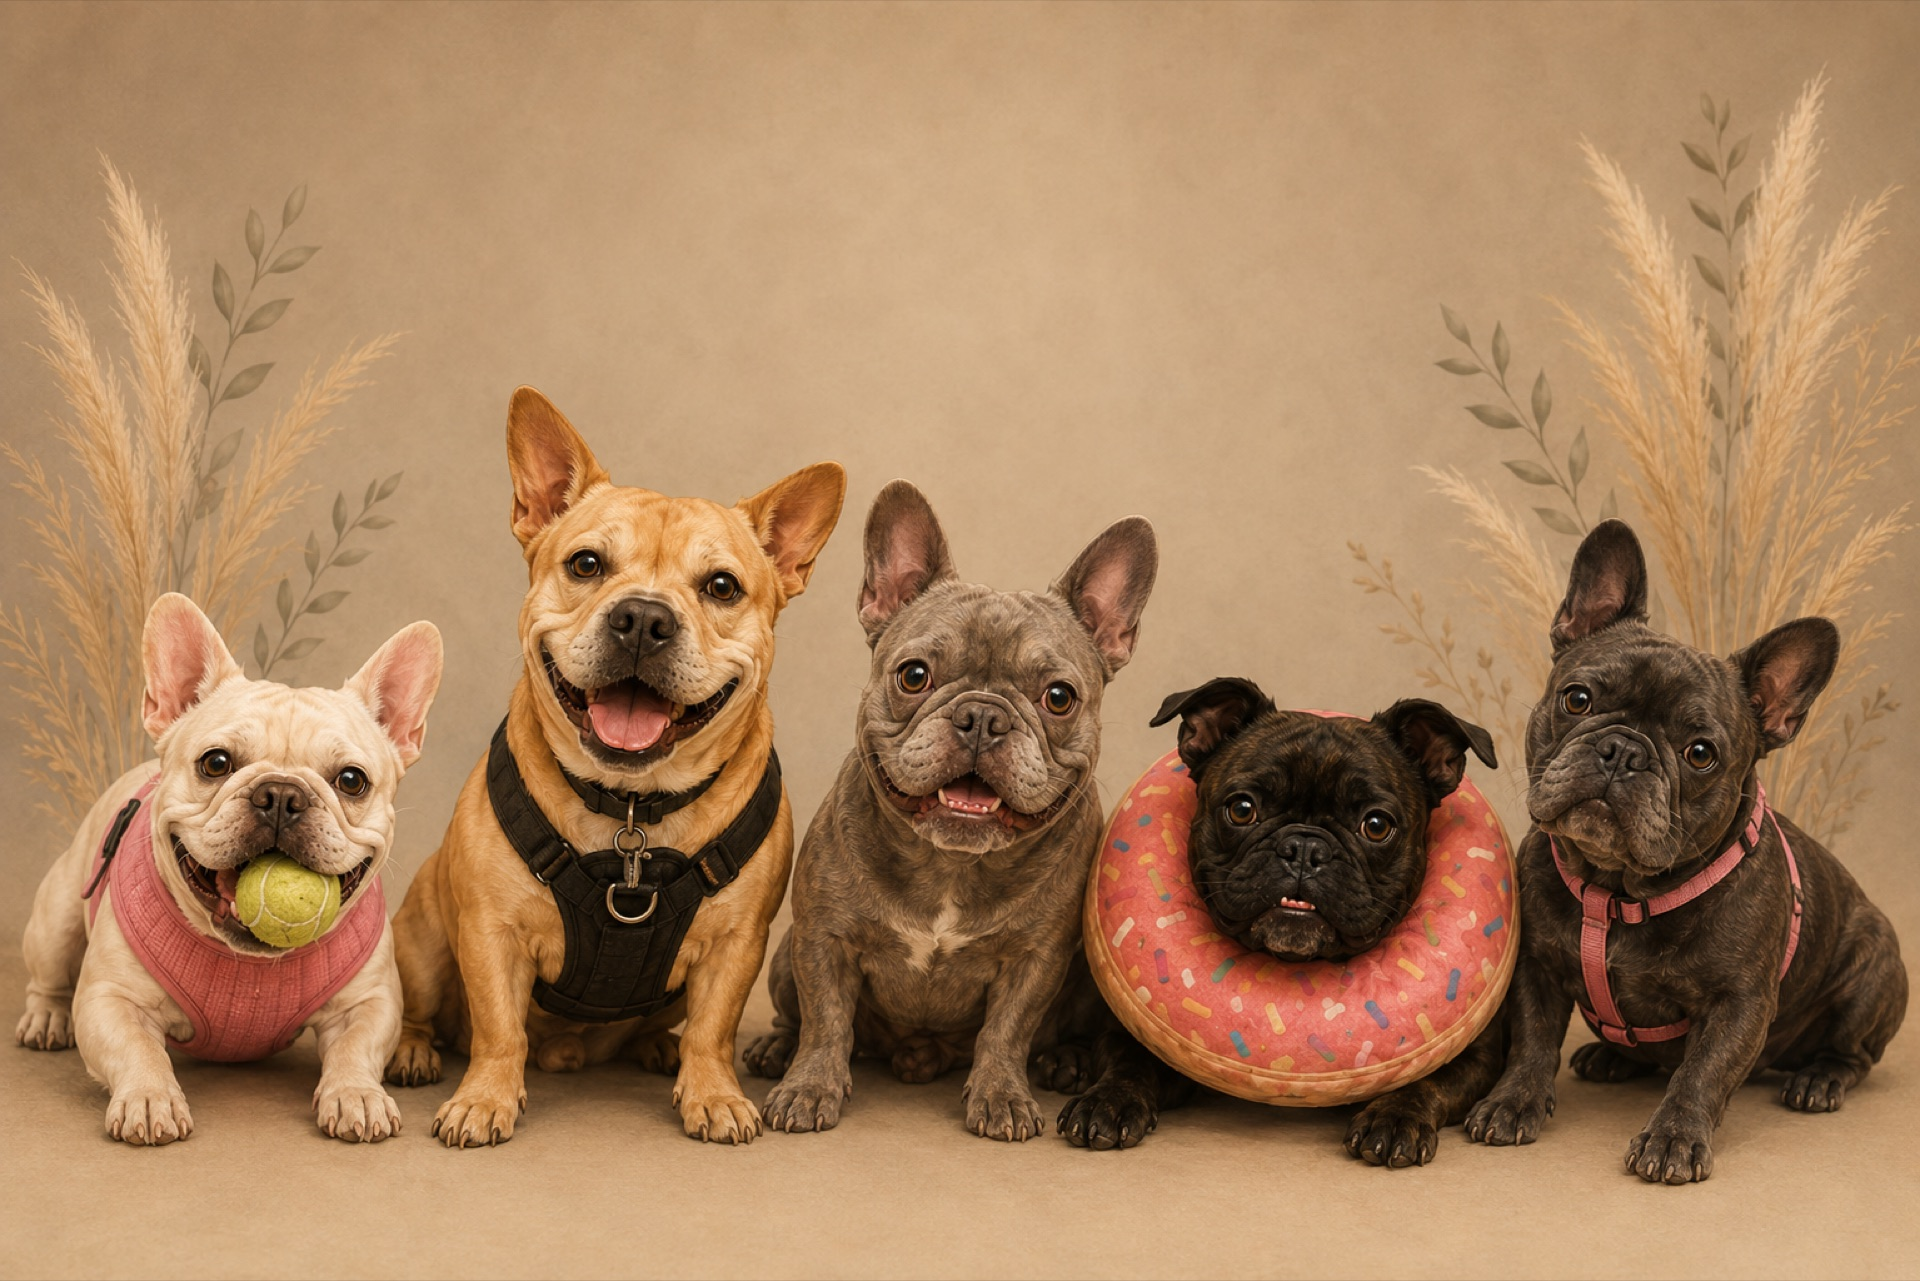
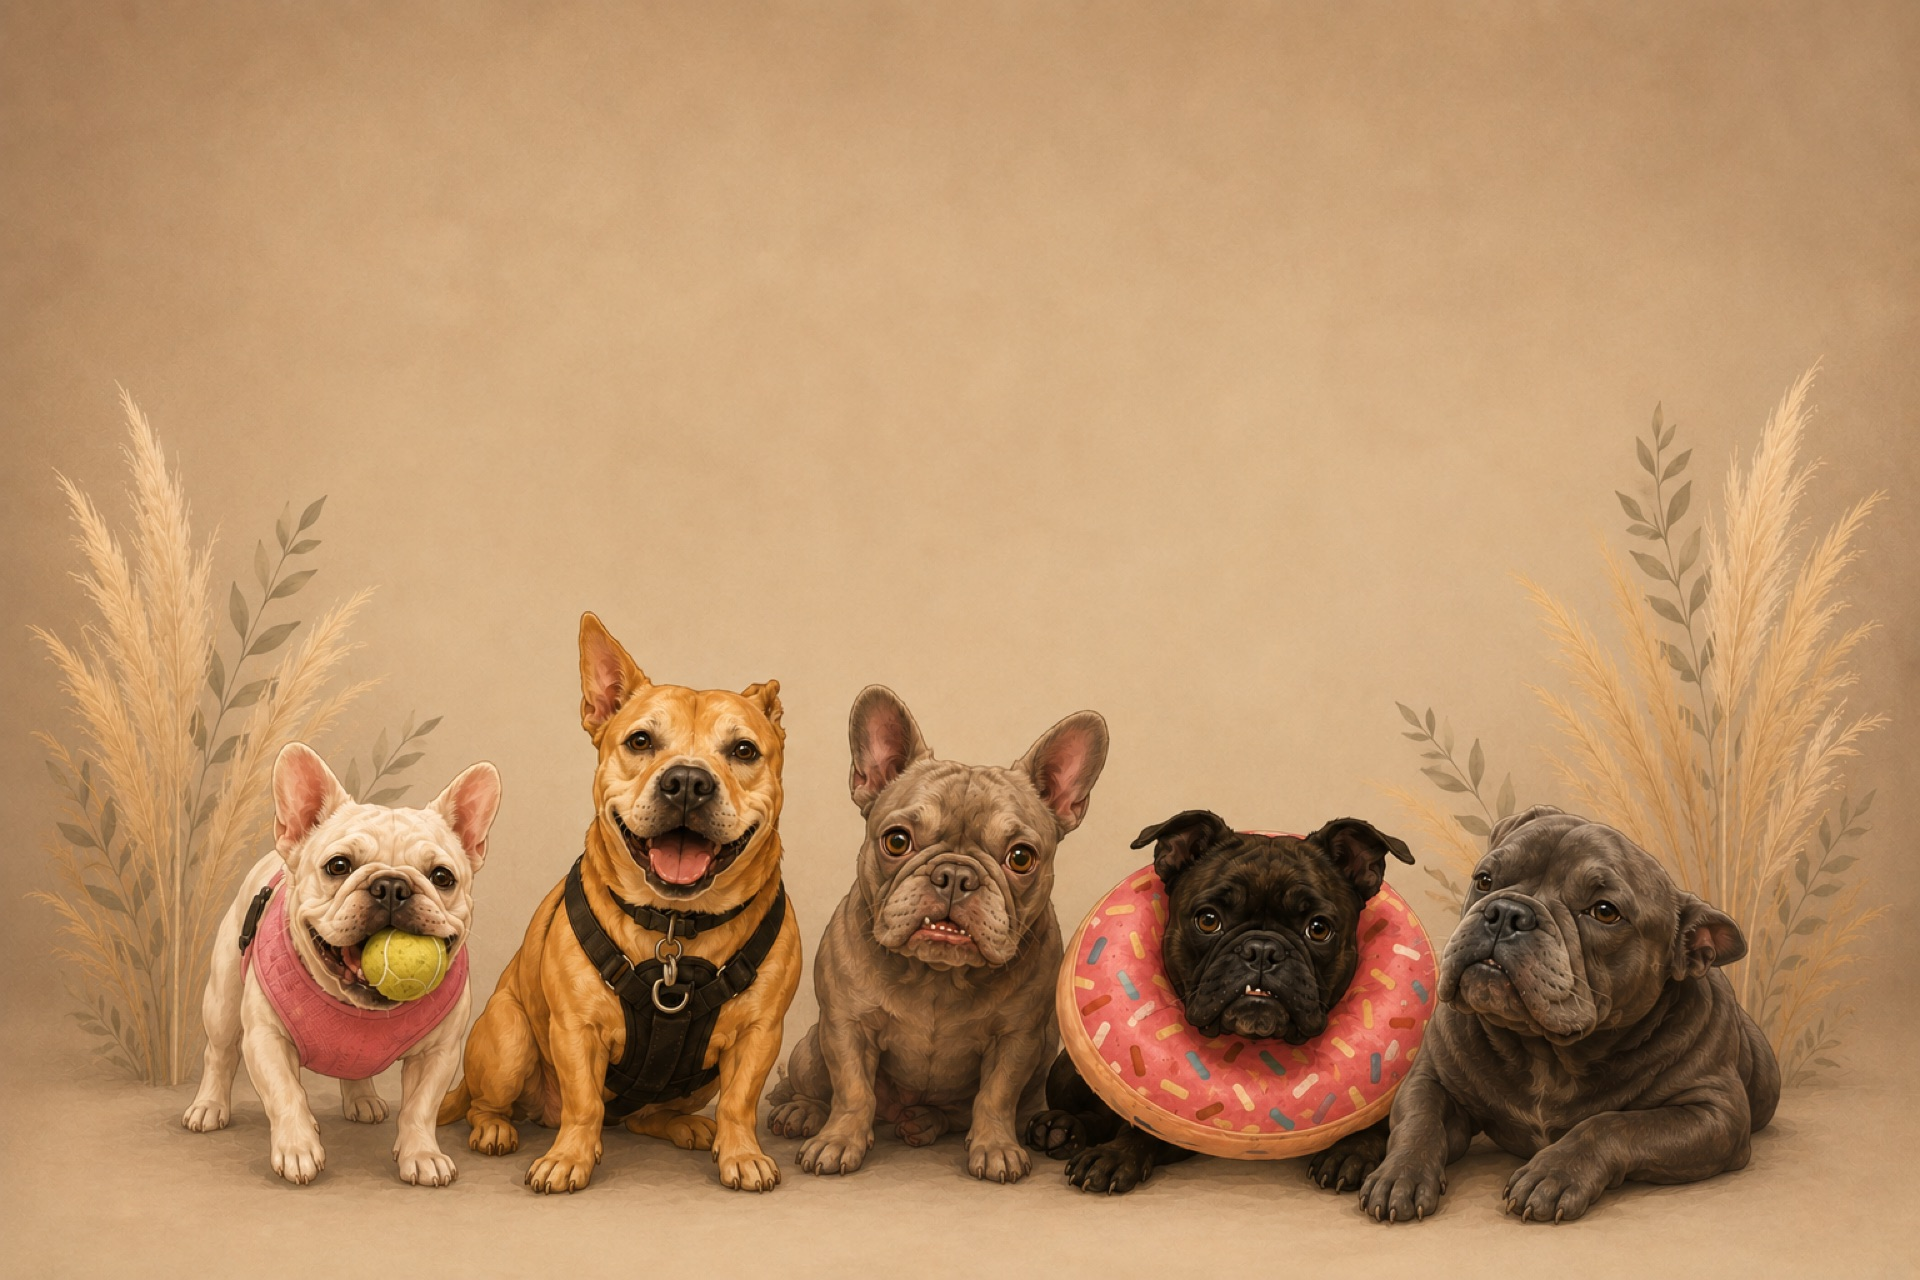
New hero image with open top space; dark hero text, no dark tint

diff --git a/styles.css b/styles.css
@@ -35,28 +35,22 @@ header.site nav a:hover { color: var(--accent-deep); }
 
 /* ---------- Full-bleed warm hero (from HeroFullbleed + Scene) ---------- */
 .hero {
-  position: relative; min-height: 82vh; display: flex; align-items: flex-start; justify-content: center;
+  position: relative; min-height: 84vh; display: flex; align-items: flex-start; justify-content: center;
   text-align: center; overflow: hidden;
-  background: #cdb79a url('images/hero.jpg') center bottom / cover no-repeat;
+  background: #d8c4a6 url('images/hero.jpg') center bottom / cover no-repeat;
 }
-.hero::before { /* scrim for legibility — darker toward the top where the text sits */
+.hero::before { /* soft light wash on the top space — keeps dark text crisp without tinting the dogs */
   content: ""; position: absolute; inset: 0;
-  background:
-    radial-gradient(120% 80% at 50% 34%, rgba(28,23,18,.55) 0%, rgba(28,23,18,.20) 55%, transparent 78%),
-    linear-gradient(180deg, rgba(28,23,18,.68) 0%, rgba(28,23,18,.5) 40%, rgba(28,23,18,.42) 70%, rgba(28,23,18,.34) 100%);
+  background: linear-gradient(180deg, rgba(247,241,232,.72) 0%, rgba(247,241,232,.4) 26%, rgba(247,241,232,.08) 46%, transparent 62%);
 }
-.hero .inner { position: relative; z-index: 2; max-width: 760px; padding: var(--sp-9) var(--sp-6) var(--sp-7); display: flex; flex-direction: column; align-items: center; gap: var(--sp-5); }
-.hero .mvc-eyebrow { text-shadow: 0 1px 10px rgba(28,23,18,.6); }
-.hero h1 { text-shadow: 0 3px 26px rgba(28,23,18,.75); }
-.hero .lead { text-shadow: 0 2px 14px rgba(28,23,18,.7); }
-.hero .mvc-eyebrow { color: rgba(247,241,232,.92); }
+.hero .inner { position: relative; z-index: 2; max-width: 760px; padding: var(--sp-8) var(--sp-6) var(--sp-7); display: flex; flex-direction: column; align-items: center; gap: var(--sp-4); }
+.hero .mvc-eyebrow { color: var(--accent-deep); }
 .hero h1 {
-  font-family: var(--font-display); font-weight: 500; color: #FBF6EE; margin: 0;
+  font-family: var(--font-display); font-weight: 500; color: var(--ink-900); margin: 0;
   font-size: clamp(2.6rem, 6vw, 5rem); line-height: 1.06; letter-spacing: .01em;
-  text-shadow: 0 4px 40px rgba(33,60,82,.35);
 }
-.hero h1 .accent-italic { font-family: var(--font-accent); font-style: italic; color: #F0D9BE; }
-.hero .lead { color: rgba(247,241,232,.94); max-width: 560px; margin: 0; }
+.hero h1 .accent-italic { font-family: var(--font-accent); font-style: italic; color: var(--accent-terra-deep); }
+.hero .lead { color: var(--ink-700); max-width: 560px; margin: 0; }
 .hero .cta-row { display: flex; gap: var(--sp-3); justify-content: center; flex-wrap: wrap; margin-top: var(--sp-3); }
 
 /* ---------- Trust strip ---------- */

diff --git a/index.html b/index.html
@@ -44,9 +44,9 @@
   <meta name="twitter:description" content="Adopt a rescued French Bulldog or small-breed dog in Key Biscayne / Miami, Florida." />
   <meta name="twitter:image" content="https://piperspalspetrescue.com/og-image.jpg" />
 
-  <link rel="stylesheet" href="colors_and_type.css?v=11" />
+  <link rel="stylesheet" href="colors_and_type.css?v=12" />
   <link rel="stylesheet" href="https://unpkg.com/@phosphor-icons/web@2.1.1/src/light/style.css" />
-  <link rel="stylesheet" href="styles.css?v=11" />
+  <link rel="stylesheet" href="styles.css?v=12" />
 </head>
 <body>
   <header class="site">
@@ -70,8 +70,8 @@
       <h1><span data-i18n="hero.title1">Every dog deserves</span><br /><span class="accent-italic" data-i18n="hero.title2">a second chance</span></h1>
       <p class="lead" data-i18n="hero.lead">These rescues are ready for a loving home — gentle, vetted and waiting for someone like you.</p>
       <div class="cta-row">
-        <a class="btn light" href="#dogs" data-i18n="hero.cta1">Meet the dogs</a>
-        <a class="btn ghost-light" href="#adopt" data-i18n="hero.cta2">How adoption works</a>
+        <a class="btn accent" href="#dogs" data-i18n="hero.cta1">Meet the dogs</a>
+        <a class="btn secondary" href="#adopt" data-i18n="hero.cta2">How adoption works</a>
       </div>
     </div>
   </section>
@@ -163,8 +163,8 @@
   </footer>
 
   <script src="https://cdn.jsdelivr.net/npm/@supabase/supabase-js@2"></script>
-  <script src="config.js?v=11"></script>
-  <script src="i18n.js?v=11"></script>
+  <script src="config.js?v=12"></script>
+  <script src="i18n.js?v=12"></script>
   <script>
     let allDogs = [];
     let filter = "all";

diff --git a/apply.html b/apply.html
@@ -6,9 +6,9 @@
   <title>French Bulldog Adoption Application — Piper’s Pals Pet Rescue (Miami / Key Biscayne, FL)</title>
   <meta name="description" content="Apply to adopt a French Bulldog or rescue dog from Piper’s Pals Pet Rescue in Key Biscayne / Miami, Florida. Complete our online adoption application." />
   <link rel="canonical" href="https://piperspalspetrescue.com/apply.html" />
-  <link rel="stylesheet" href="colors_and_type.css?v=11" />
+  <link rel="stylesheet" href="colors_and_type.css?v=12" />
   <link rel="stylesheet" href="https://unpkg.com/@phosphor-icons/web@2.1.1/src/light/style.css" />
-  <link rel="stylesheet" href="styles.css?v=11" />
+  <link rel="stylesheet" href="styles.css?v=12" />
 </head>
 <body>
   <header class="site">
@@ -176,8 +176,8 @@
   </footer>
 
   <script src="https://cdn.jsdelivr.net/npm/@supabase/supabase-js@2"></script>
-  <script src="config.js?v=11"></script>
-  <script src="i18n.js?v=11"></script>
+  <script src="config.js?v=12"></script>
+  <script src="i18n.js?v=12"></script>
   <script>
     const $ = id => document.getElementById(id);
     // Pre-fill the dog name from ?dog=

diff --git a/dog.html b/dog.html
@@ -12,9 +12,9 @@
   <meta property="og:description" content="A rescue dog in Key Biscayne, Florida looking for a loving forever home." />
   <meta property="og:image" content="https://piperspalspetrescue.com/og-image.jpg" />
   <meta name="twitter:card" content="summary_large_image" />
-  <link rel="stylesheet" href="colors_and_type.css?v=11" />
+  <link rel="stylesheet" href="colors_and_type.css?v=12" />
   <link rel="stylesheet" href="https://unpkg.com/@phosphor-icons/web@2.1.1/src/light/style.css" />
-  <link rel="stylesheet" href="styles.css?v=11" />
+  <link rel="stylesheet" href="styles.css?v=12" />
 </head>
 <body>
   <header class="site">
@@ -46,8 +46,8 @@
   </footer>
 
   <script src="https://cdn.jsdelivr.net/npm/@supabase/supabase-js@2"></script>
-  <script src="config.js?v=11"></script>
-  <script src="i18n.js?v=11"></script>
+  <script src="config.js?v=12"></script>
+  <script src="i18n.js?v=12"></script>
   <script>
     let currentDog = null;
     function esc(s){ return (s||"").replace(/[&<>"]/g,c=>({"&":"&amp;","<":"&lt;",">":"&gt;",'"':"&quot;"}[c])); }

diff --git a/admin.html b/admin.html
@@ -5,8 +5,8 @@
   <meta name="viewport" content="width=device-width, initial-scale=1.0" />
   <title>Admin — Piper’s Pals Pet Rescue</title>
   <meta name="robots" content="noindex, nofollow" />
-  <link rel="stylesheet" href="colors_and_type.css?v=11" />
-  <link rel="stylesheet" href="styles.css?v=11" />
+  <link rel="stylesheet" href="colors_and_type.css?v=12" />
+  <link rel="stylesheet" href="styles.css?v=12" />
 </head>
 <body>
   <header class="site">
@@ -100,7 +100,7 @@
   </div>
 
   <script src="https://cdn.jsdelivr.net/npm/@supabase/supabase-js@2"></script>
-  <script src="config.js?v=11"></script>
+  <script src="config.js?v=12"></script>
   <script>
     const $ = id => document.getElementById(id);
     let photoUrls = []; // urls for the dog currently being edited/created
